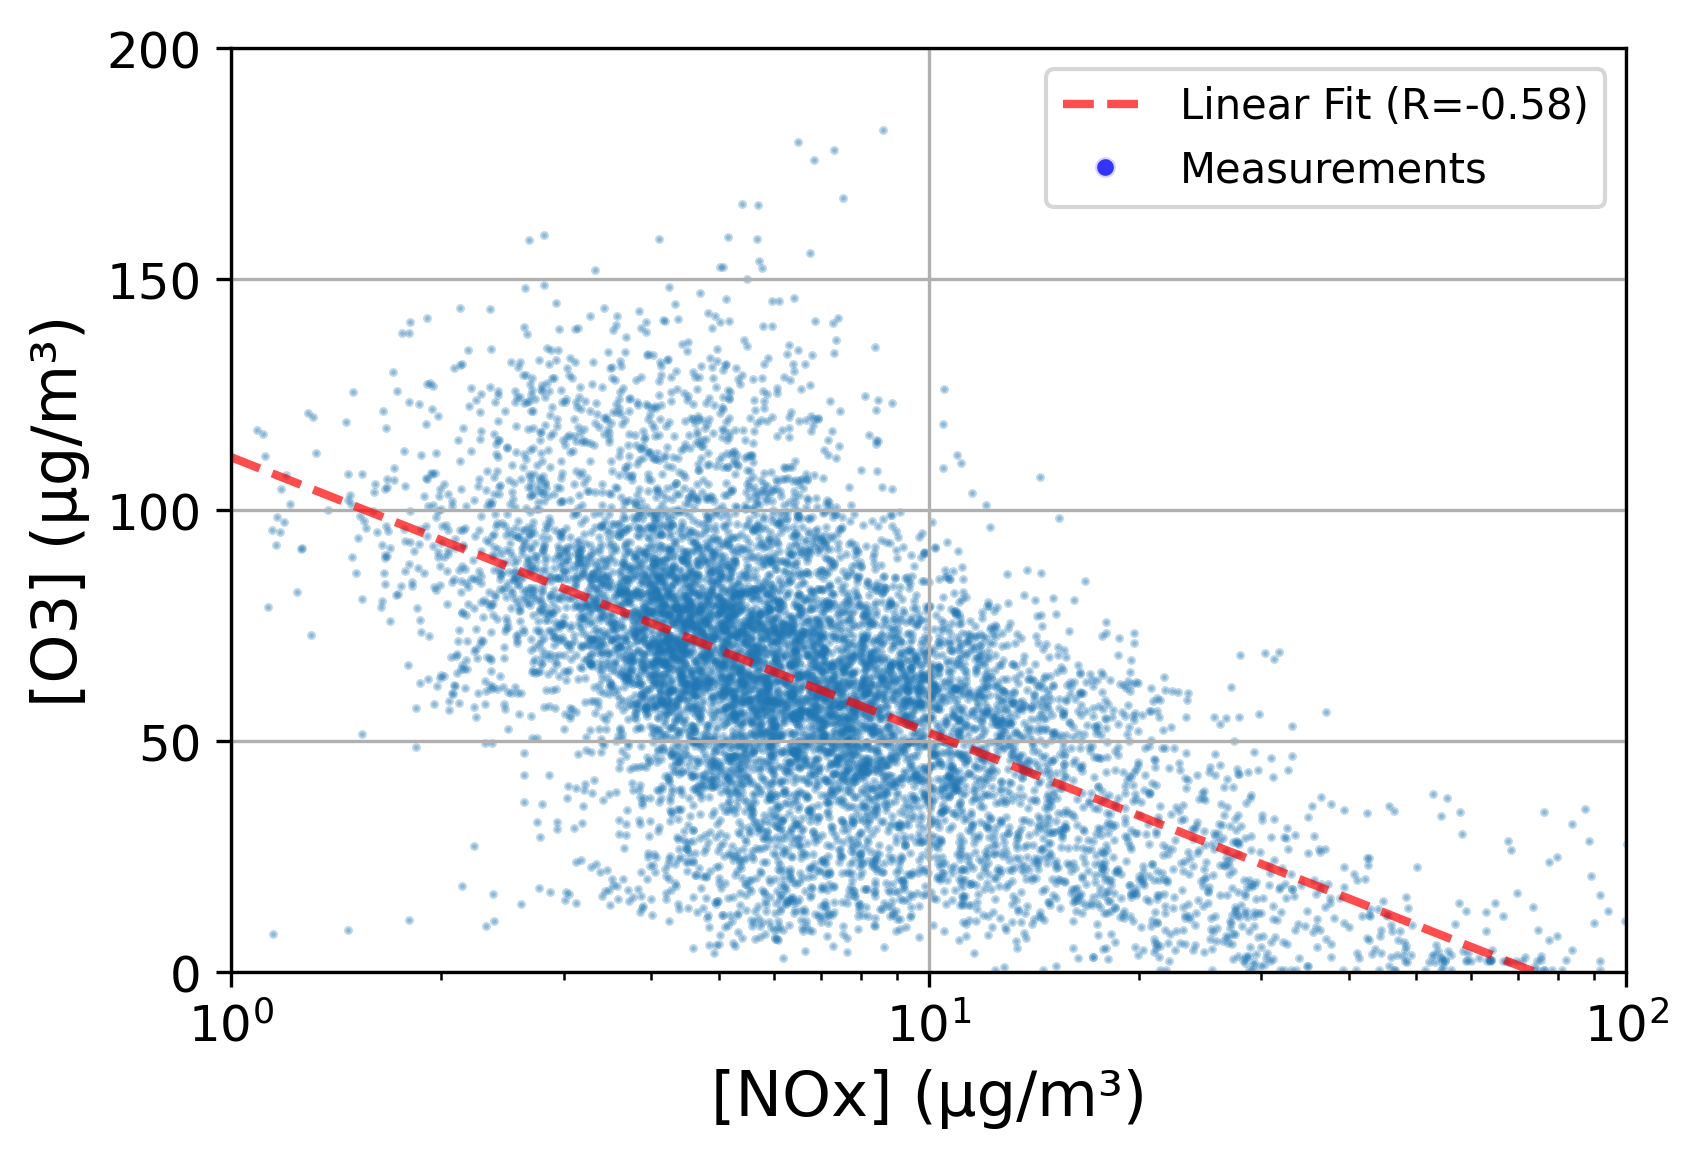
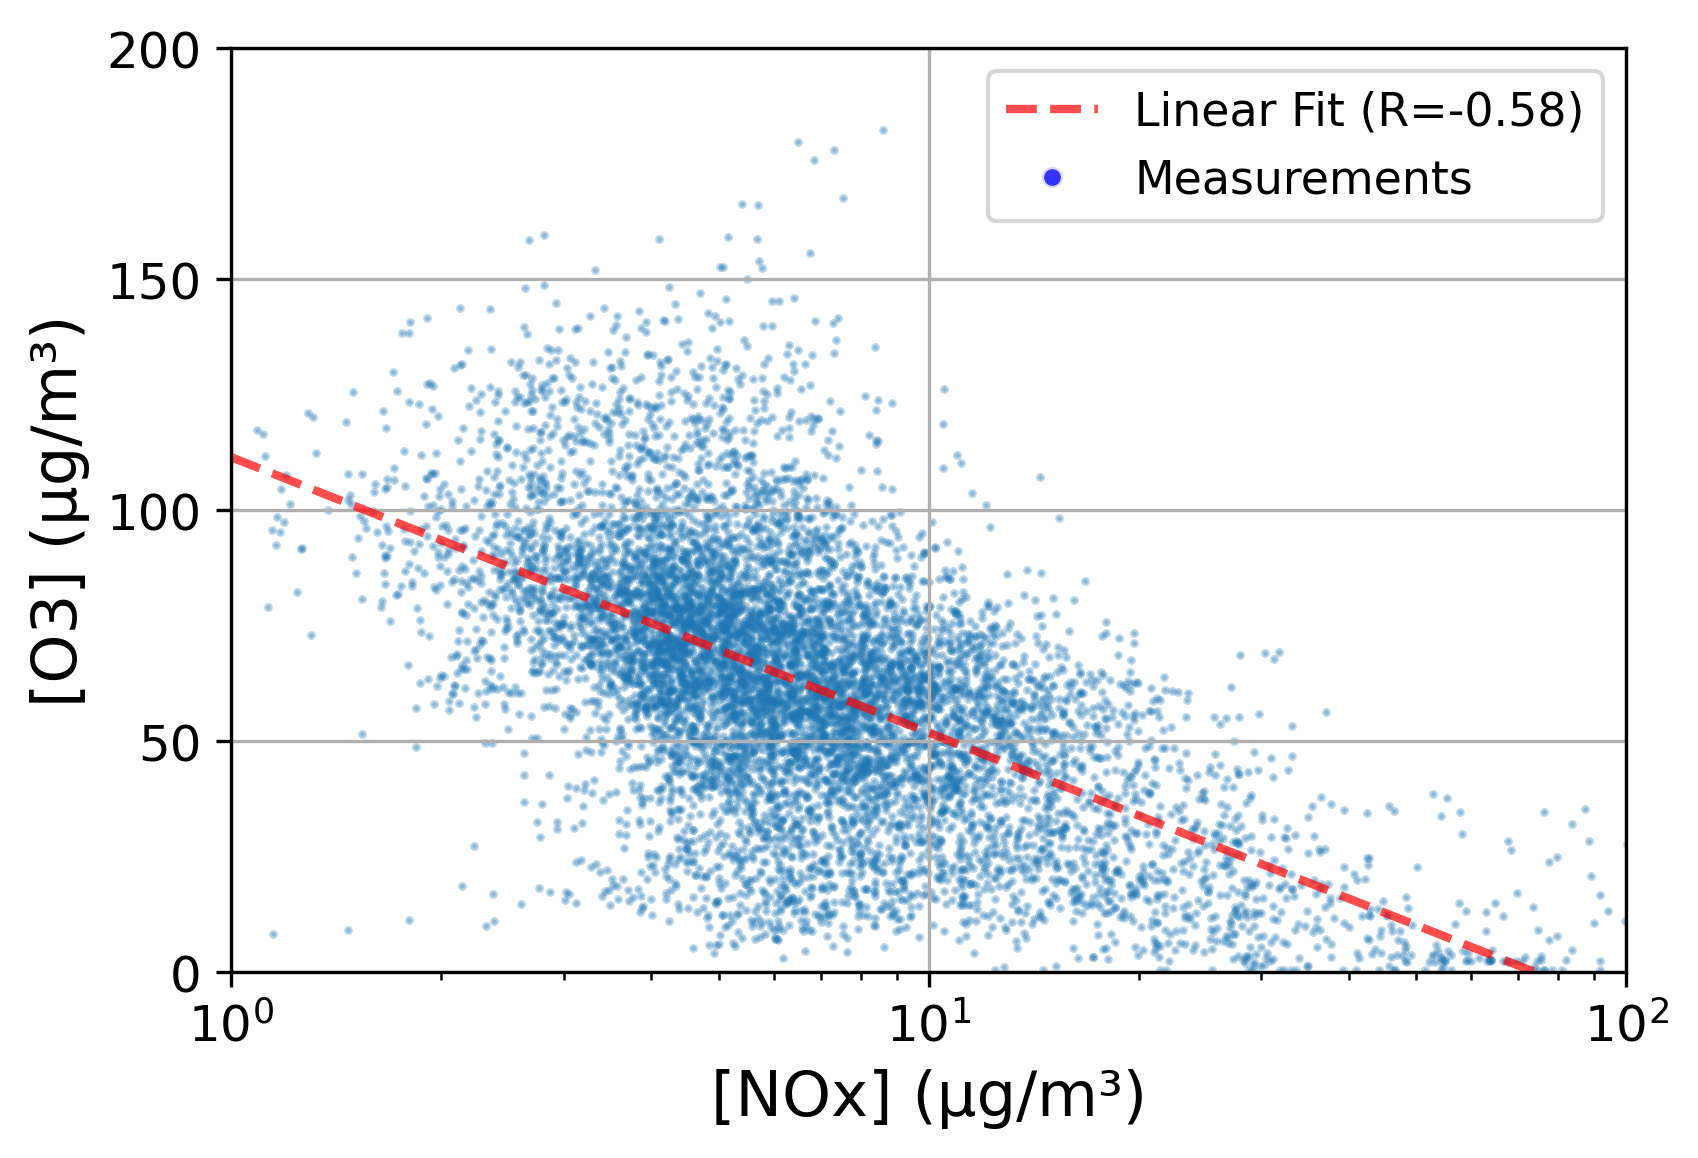
.

Changed region(s): [[0.5931, 0.0622, 0.9364, 0.2176]]

diff --git a/Question3.py b/Question3.py
@@ -181,7 +181,7 @@ for station, data in station_data.items():
     legend_marker = Line2D([0], [0], marker="o", color="w", markerfacecolor="blue", alpha=0.8, markersize=5, label=f"Measurements")
     legend_handles.append(legend_marker)
 
-    plt.legend(handles=legend_handles, loc="upper right")
+    plt.legend(handles=legend_handles, loc="upper right", fontsize=11)
 
     # Save each figure separately
     plt.savefig(f"{station}_scatter_plot.png", dpi=300, bbox_inches="tight")
